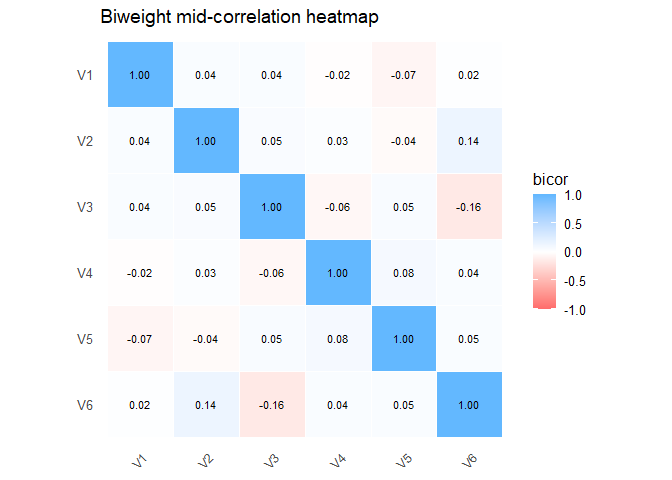
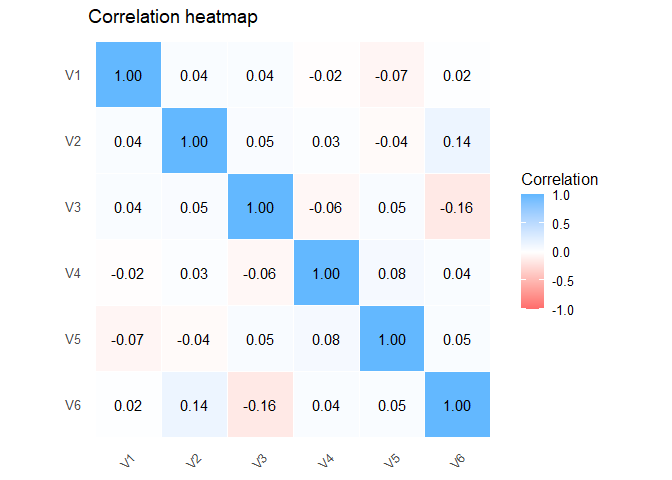
readme

diff --git a/README.md b/README.md
@@ -39,26 +39,20 @@ repeated-measures designs.
 
 ## Features
 
-- High-performance C++ backend using `Rcpp`
-- General correlations such as `pearson_corr()`, `spearman_rho()`,
-  `kendall_tau()`
-- Robust correlation metrics (`bicor()`, `pbcor()`, `wincor()`,
-  `skipped_corr()`)
-- Distance correlation (`dcor()`)
-- Partial correlation (`pcorr()`)
-- Latent categorical/ordinal correlations (`tetrachoric()`,
-  `polychoric()`, `polyserial()`, `biserial()`)
-- Repeated-measures correlation (`rmcorr()`)
-- Shrinkage for $p >> n$ (`shrinkage_corr()`)
-- Agreement metrics
-  - Bland-Altman (two-method `ba()` and repeated-measures `ba_rm()`),
-  - Lin’s concordance correlation coefficient (pairwise `ccc()`,
-    repeated-measures LMM/REML `ccc_rm_reml()` and non-parametric
-    `ccc_rm_ustat()`),
-  - Intraclass correlation (wide-data `icc()` with pairwise and overall
-    scope, repeated-measures REML `icc_rm_reml()`)
-- Interactive Shiny viewers for matrix-style outputs with a dedicated
-  repeated-measures correlation viewer (`view_rmcorr_shiny()`)
+| Area | Functions and tools |
+|----|----|
+| Backend | High-performance C++ backend using `Rcpp` |
+| General correlations | `pearson_corr()`, `spearman_rho()`, `kendall_tau()` |
+| Robust correlations | `bicor()`, `pbcor()`, `wincor()`, `skipped_corr()` |
+| Distance correlation | `dcor()`, `robust_dcor()` |
+| Partial correlation | `pcorr()` |
+| Latent categorical/ordinal correlations | `tetrachoric()`, `polychoric()`, `polyserial()`, `biserial()` |
+| Repeated-measures correlation | `rmcorr()` |
+| Shrinkage for $p >> n$ | `shrinkage_corr()` |
+| Agreement: Bland-Altman | Two-method `ba()`, repeated-measures `ba_rm()` |
+| Agreement: concordance | Pairwise Lin’s CCC `ccc()`, repeated-measures LMM/REML `ccc_rm_reml()`, non-parametric `ccc_rm_ustat()` |
+| Agreement: intraclass correlation | Wide-data `icc()` with pairwise and overall scope, repeated-measures REML `icc_rm_reml()` |
+| Interactive viewers | Matrix-style Shiny viewers, including the repeated-measures correlation viewer `view_rmcorr_shiny()` |
 
 ## Installation
 
@@ -73,7 +67,8 @@ remotes::install_github("Prof-ThiagoOliveira/matrixCorr")
 
 ## Thread settings (`n_threads`)
 
-Most computational functions expose an `n_threads` argument and default to:
+Most computational functions expose an `n_threads` argument and default
+to:
 
 ``` r
 getOption("matrixCorr.threads", 1L)
@@ -114,28 +109,40 @@ print(R_pear, digits = 2)
 #> V6  0.01  0.13 -0.14  0.03  0.04  1.00
 summary(R_pear)
 #> Pearson correlation summary
-#>   method      : pearson
+#>   output      : matrix
 #>   dimensions  : 6 x 6
-#>   pairs       : 15
-#>   n_complete  : 300
-#>   estimate    : -0.1410 to 0.1272
-#>   most_negative: V3-V6 (-0.1410)
-#>   most_positive: V2-V6 (0.1272)
+#>   retained_pairs: 21
+#>   threshold   : 0.0000
+#>   diag        : included
+#>   estimate    : -0.1410 to 1.0000
 #>   ci          : 95%
 #>   ci_method   : fisher_z
 #>   ci_width    : 0.222 to 0.226
 #>   cross_zero  : 13 pair(s)
 #> 
+#>  item1 item2 estimate n_complete lwr     upr     fisher_z statistic p_value
+#>  V3    V6    -0.1410  300        -0.2502 -0.0282 -0.1419  -2.4459   0.0144 
+#>  V2    V6    0.1272   300        0.0142  0.2371  0.1279   2.2047    0.0275 
+#>  V3    V5    0.0776   300        -0.0360 0.1892  0.0778   1.3401    0.1802 
+#>  V4    V5    0.0724   300        -0.0412 0.1841  0.0725   1.2491    0.2116 
+#>  V1    V5    -0.0650  300        -0.1770 0.0486  -0.0651  -1.1222   0.2618 
+#>  ...   ...   ...      ...        ...     ...     ...      ...       ...    
+#>  V2    V4    0.0335   300        -0.0801 0.1462  0.0335   0.5773    0.5638 
+#>  V4    V6    0.0324   300        -0.0811 0.1451  0.0324   0.5584    0.5766 
+#>  V1    V2    0.0236   300        -0.0899 0.1365  0.0236   0.4064    0.6845 
+#>  V1    V4    -0.0185  300        -0.1315 0.0949  -0.0185  -0.3187   0.7500 
+#>  V1    V6    0.0130   300        -0.1004 0.1261  0.0130   0.2243    0.8225 
+#> ... 5 more rows not shown (omitted)
+#> Use as.data.frame()/tidy()/as.matrix() to inspect the full result.
+#> 
 #> Strongest pairs by |estimate|
 #> 
-#>  item1 item2 estimate n_complete lwr    upr   
-#>  V3    V6    -0.1410  300        -0.250 -0.028
-#>  V2    V6     0.1272  300         0.014  0.237
-#>  V3    V5     0.0776  300        -0.036  0.189
-#>  V4    V5     0.0724  300        -0.041  0.184
-#>  V1    V5    -0.0650  300        -0.177  0.049
-#> ... 10 more rows not shown (omitted)
-#> Use as.data.frame()/tidy()/as.matrix() to inspect the full result.
+#>  item1 item2 estimate n_complete lwr     upr     fisher_z statistic p_value
+#>  V3    V6    -0.1410  300        -0.2502 -0.0282 -0.1419  -2.4459   0.0144 
+#>  V2    V6    0.1272   300        0.0142  0.2371  0.1279   2.2047    0.0275 
+#>  V3    V5    0.0776   300        -0.0360 0.1892  0.0778   1.3401    0.1802 
+#>  V4    V5    0.0724   300        -0.0412 0.1841  0.0725   1.2491    0.2116 
+#>  V1    V5    -0.0650  300        -0.1770 0.0486  -0.0651  -1.1222   0.2618
 plot(R_bicor)
 ```
 
@@ -178,17 +185,17 @@ summary(fit_ccc_rm)
 #> Concordance estimates
 #> 
 #>  item1 item2 estimate n_subjects n_obs SB     se_ccc
-#>  A     B     0.8996   24         96    0.0554 0.0184
+#>  A     B     0.8841   24         192   0.0548 0.0216
 #> 
 #> Variance components
 #> 
 #>  sigma2_subject sigma2_subject_method sigma2_subject_time sigma2_error
-#>  0.7941         0                     0                   0.1329      
+#>  0.7866         0.0176                0                   0.1229      
 #> 
 #> AR(1) diagnostics
 #> 
 #>  ar1_rho ar1_rho_lag1 ar1_rho_mom ar1_pairs ar1_pval use_ar1 ar1_recommend
-#>  0.0179  0.0179       0.0179      144       0.8298   FALSE   FALSE
+#>  -0.1256 -0.1256      -0.1256     144       0.1318   FALSE   FALSE
 ```
 
 Agreement and reliability methods use the same general inspection